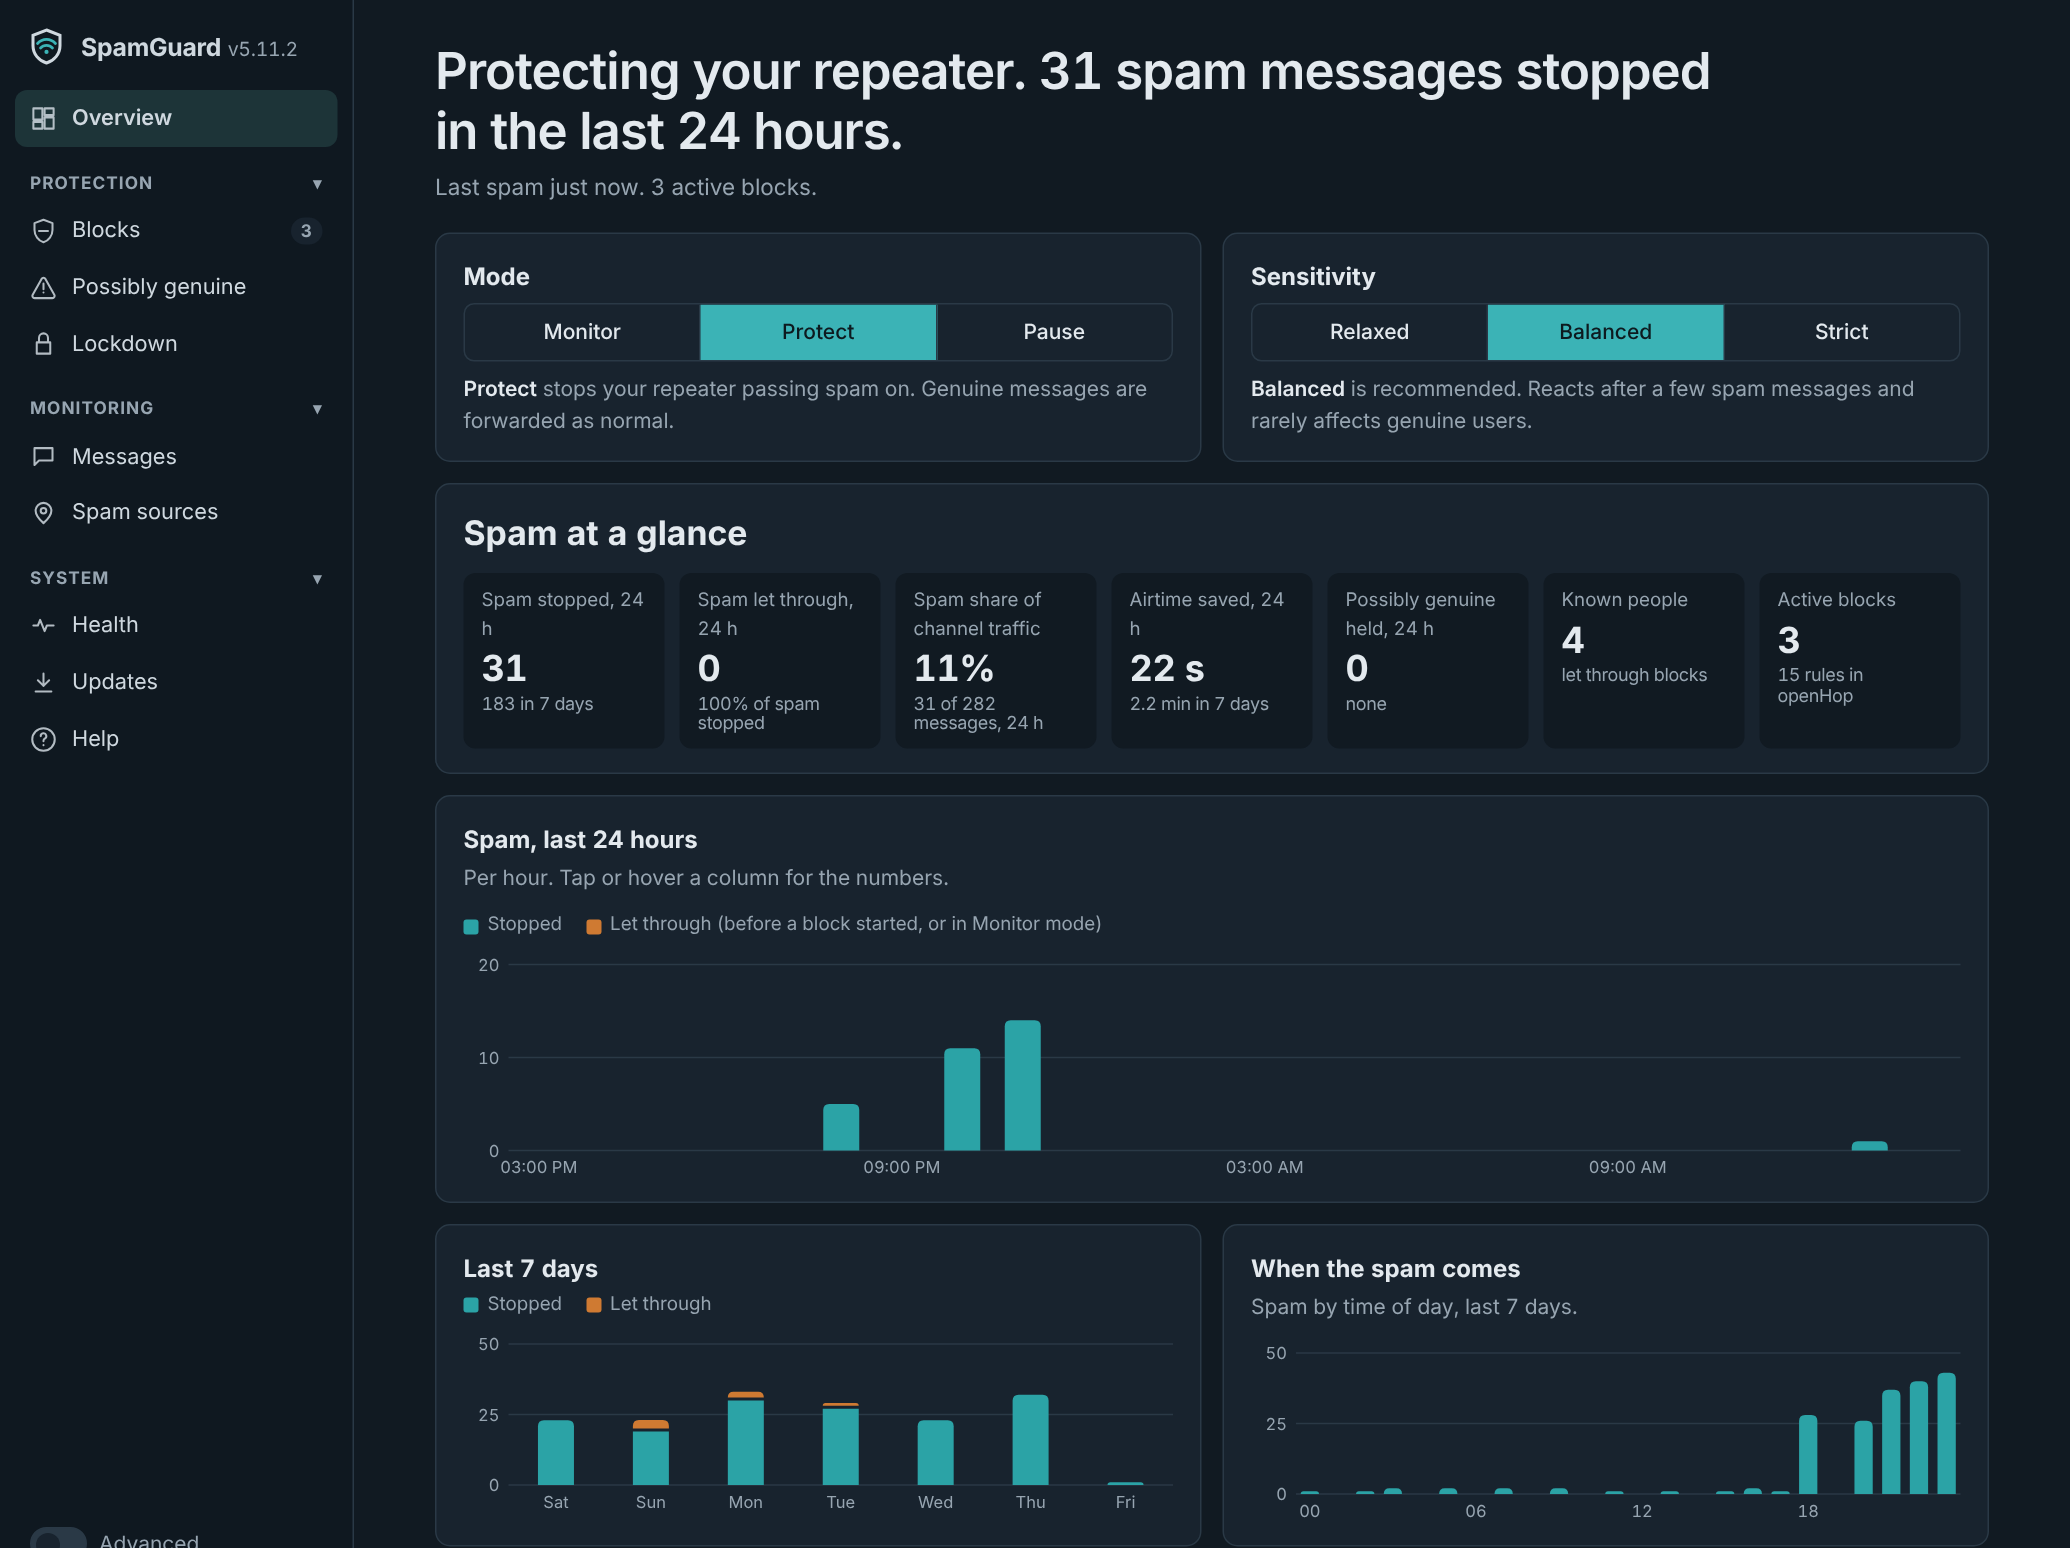
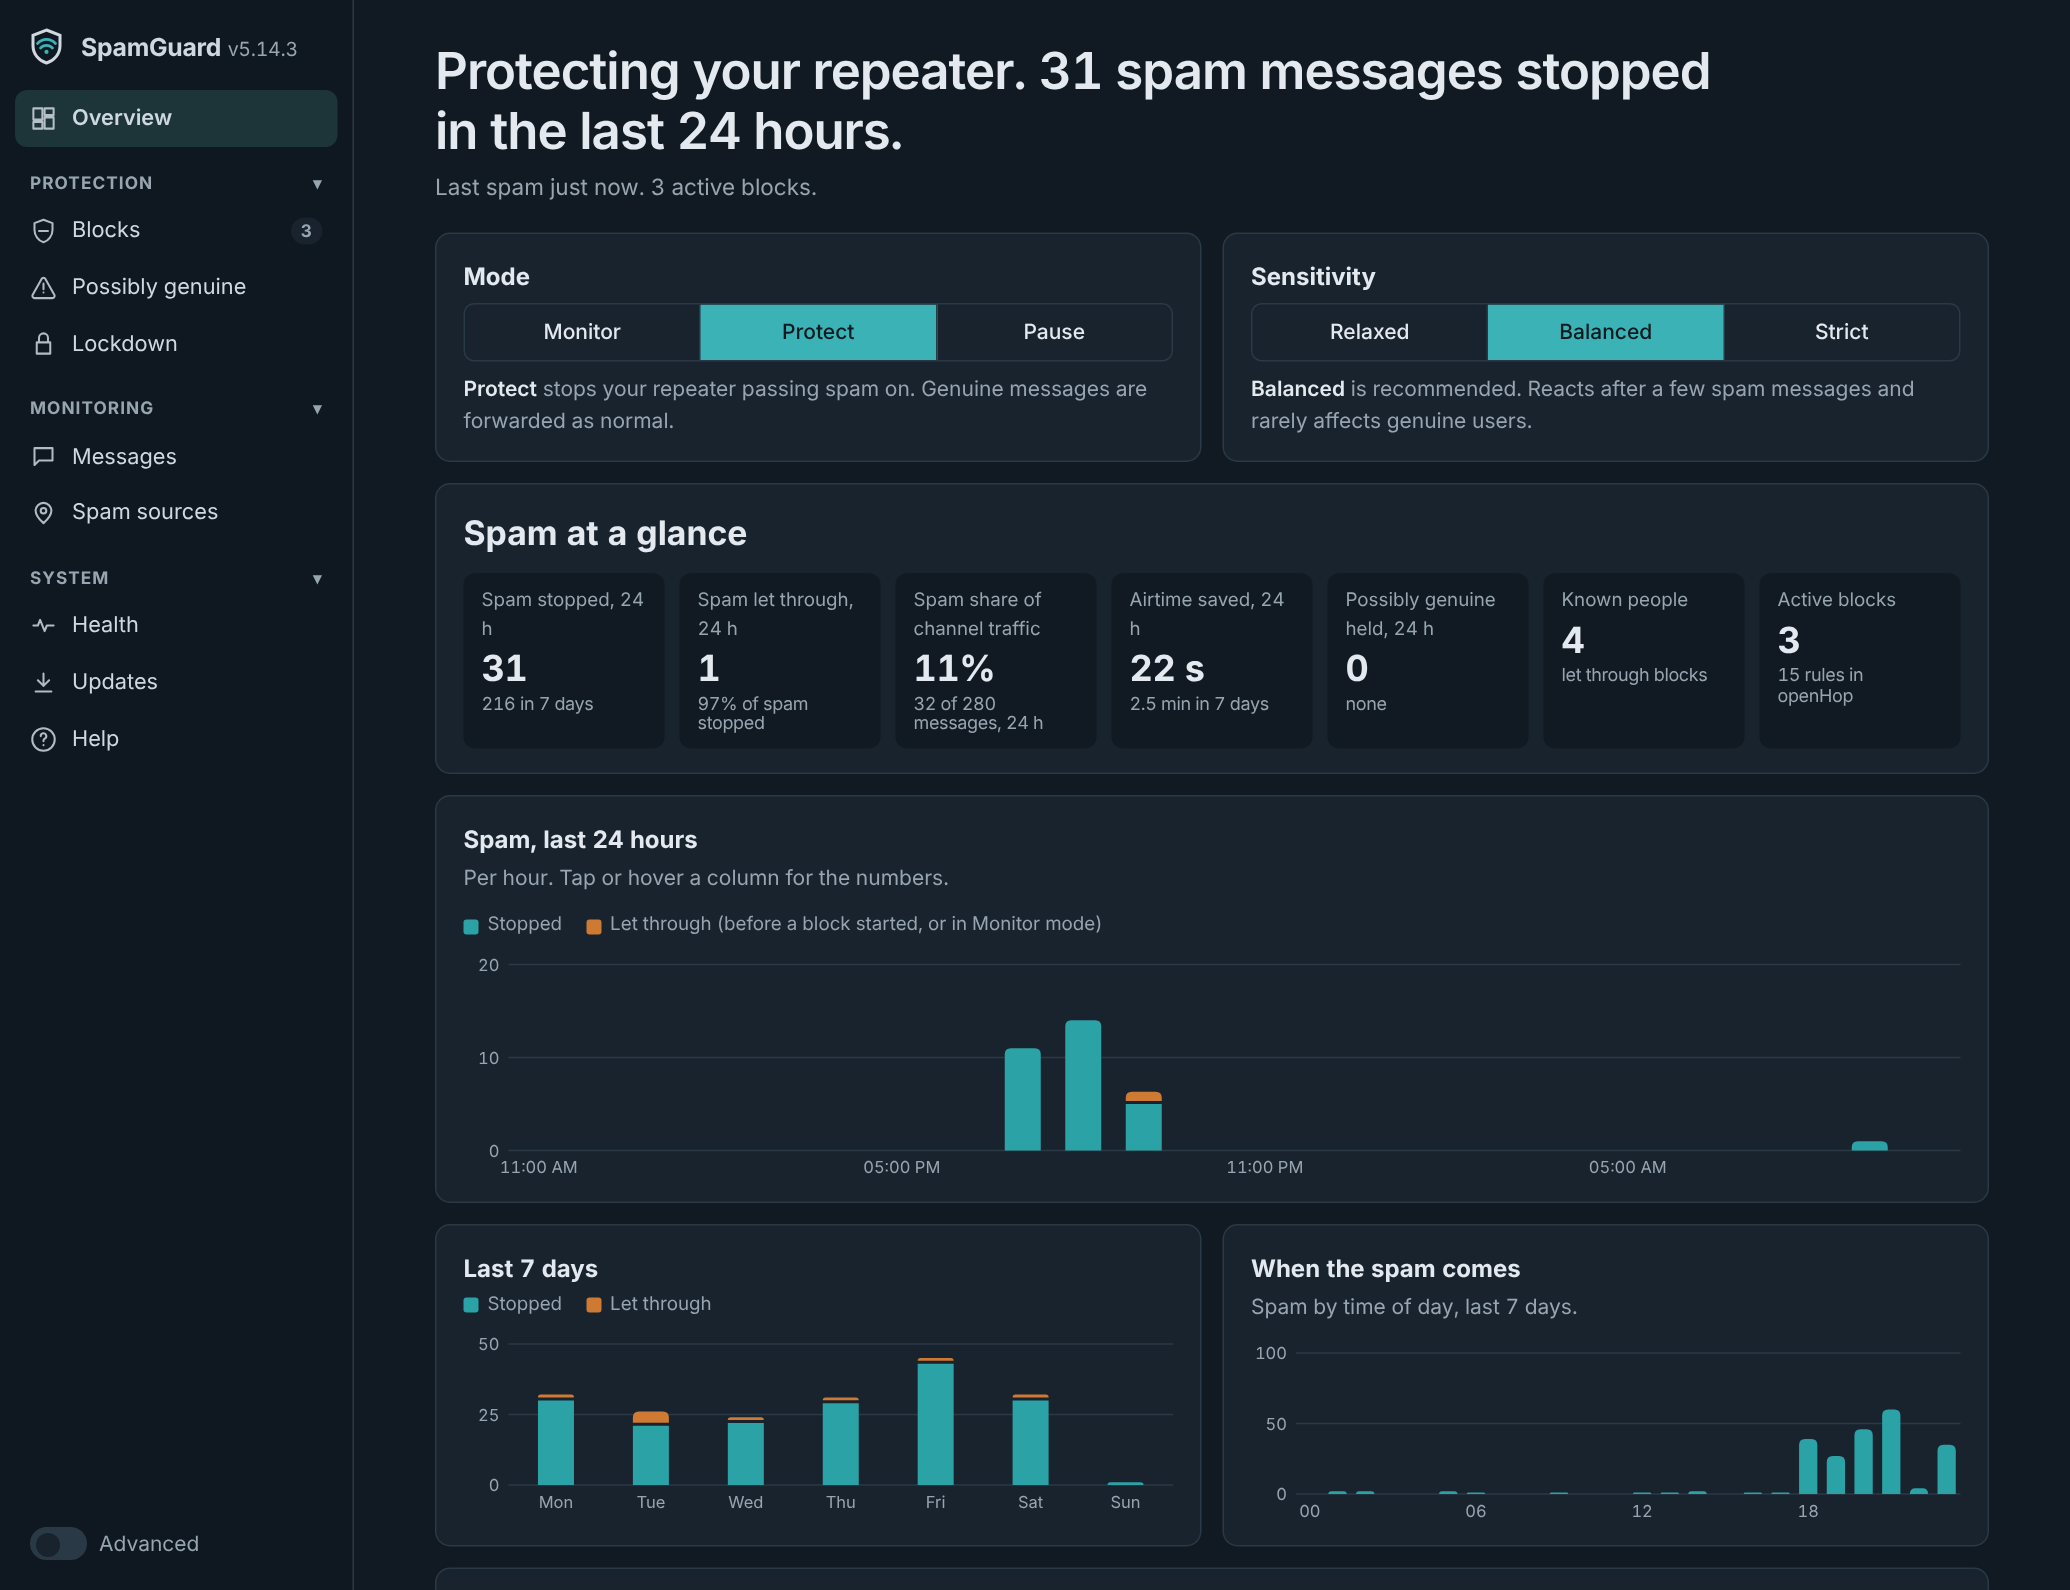
New screenshots: Overview and the Spam sources map (example data)
All names, messages, route codes and locations are made up.

diff --git a/tests/demo_setup.py b/tests/demo_setup.py
@@ -7,11 +7,11 @@ random.seed(7)
 m=mock()
 # made-up regulars
 for i,(n,t) in enumerate([("Hilltop Hiker","Morning all, clear skies up here"),("Canal Boat Ted","Anyone hearing me from the lock?"),("Base Camp 3","Radio check please"),("Sparky Sue","Copy that, loud and clear")]):
-    m.add(n,t,["44","13"],ago=1500-i*120)
+    m.add(n,t,["A7","2F"],ago=1500-i*120)
 # made-up spam campaign under random names through repeater 76
-for i in range(6): m.add(rname(),"FREE PRIZE claim now https://spam.example/"+rname(5),["76","04","3B"],ago=60-i)
+for i in range(6): m.add(rname(),"FREE PRIZE claim now https://spam.example/"+rname(5),["C4","9D","E1"],ago=60-i)
 g=guard(m, listen_port=18171, listen_host="127.0.0.1"); g.poll_once(); g.last_sync=0; g.sync_pending=True; g.poll_once()
-for i in range(4): m.add(rname(),"FREE PRIZE claim now https://spam.example/"+rname(5),["76","04","3B"]); 
+for i in range(4): m.add(rname(),"FREE PRIZE claim now https://spam.example/"+rname(5),["C4","9D","E1"]); 
 g.poll_once()
 # synthetic history: 7 days of made-up hourly counts
 now=int(time.time())//3600*3600; h={}
@@ -21,9 +21,9 @@ for k in range(24*7):
     burst=(18<=hr<=23) and random.random()<0.55
     c=random.randint(3,14) if burst else (1 if random.random()<0.08 else 0)
     x=1 if (c and random.random()<0.15) else 0
-    h[str(t)]={"m":msgs+c+x,"c":c,"x":x,"g":1 if random.random()<0.02 else 0,"a":c*706.0,"h":{"76":c} if c else {}}
+    h[str(t)]={"m":msgs+c+x,"c":c,"x":x,"g":1 if random.random()<0.02 else 0,"a":c*706.0,"h":{"C4":c} if c else {}}
 g.hist=h
 g.radio={"spreading_factor":8,"bandwidth":62500,"coding_rate":8,"preamble_length":32}
 g.me={"name":"Example Repeater","hash":"5A","lat":0,"lon":0}
-g.repeaters={"ts":time.time()+1e9,"list":[{"key":"76AB12","name":"Example Hill","seen":time.time(),"lat":0,"lon":0}]}
+g.repeaters={"ts":time.time()+1e9,"list":[{"key":"C4AB12","name":"Ridgeway Relay","seen":time.time(),"lat":0,"lon":0}]}
 srv=sg.QuietServer(("127.0.0.1",18171), sg.make_handler(g)); threading.Thread(target=srv.serve_forever,daemon=True).start()

diff --git a/README.md b/README.md
@@ -15,6 +15,8 @@
 
 ![SpamGuard's web page (example data)](docs/screenshot-overview.png)
 
+![The Spam sources map, showing where spam entered the mesh (example data)](docs/screenshot-sources.png)
+
 _Example data: names and numbers are made up._
 
 ## Install
